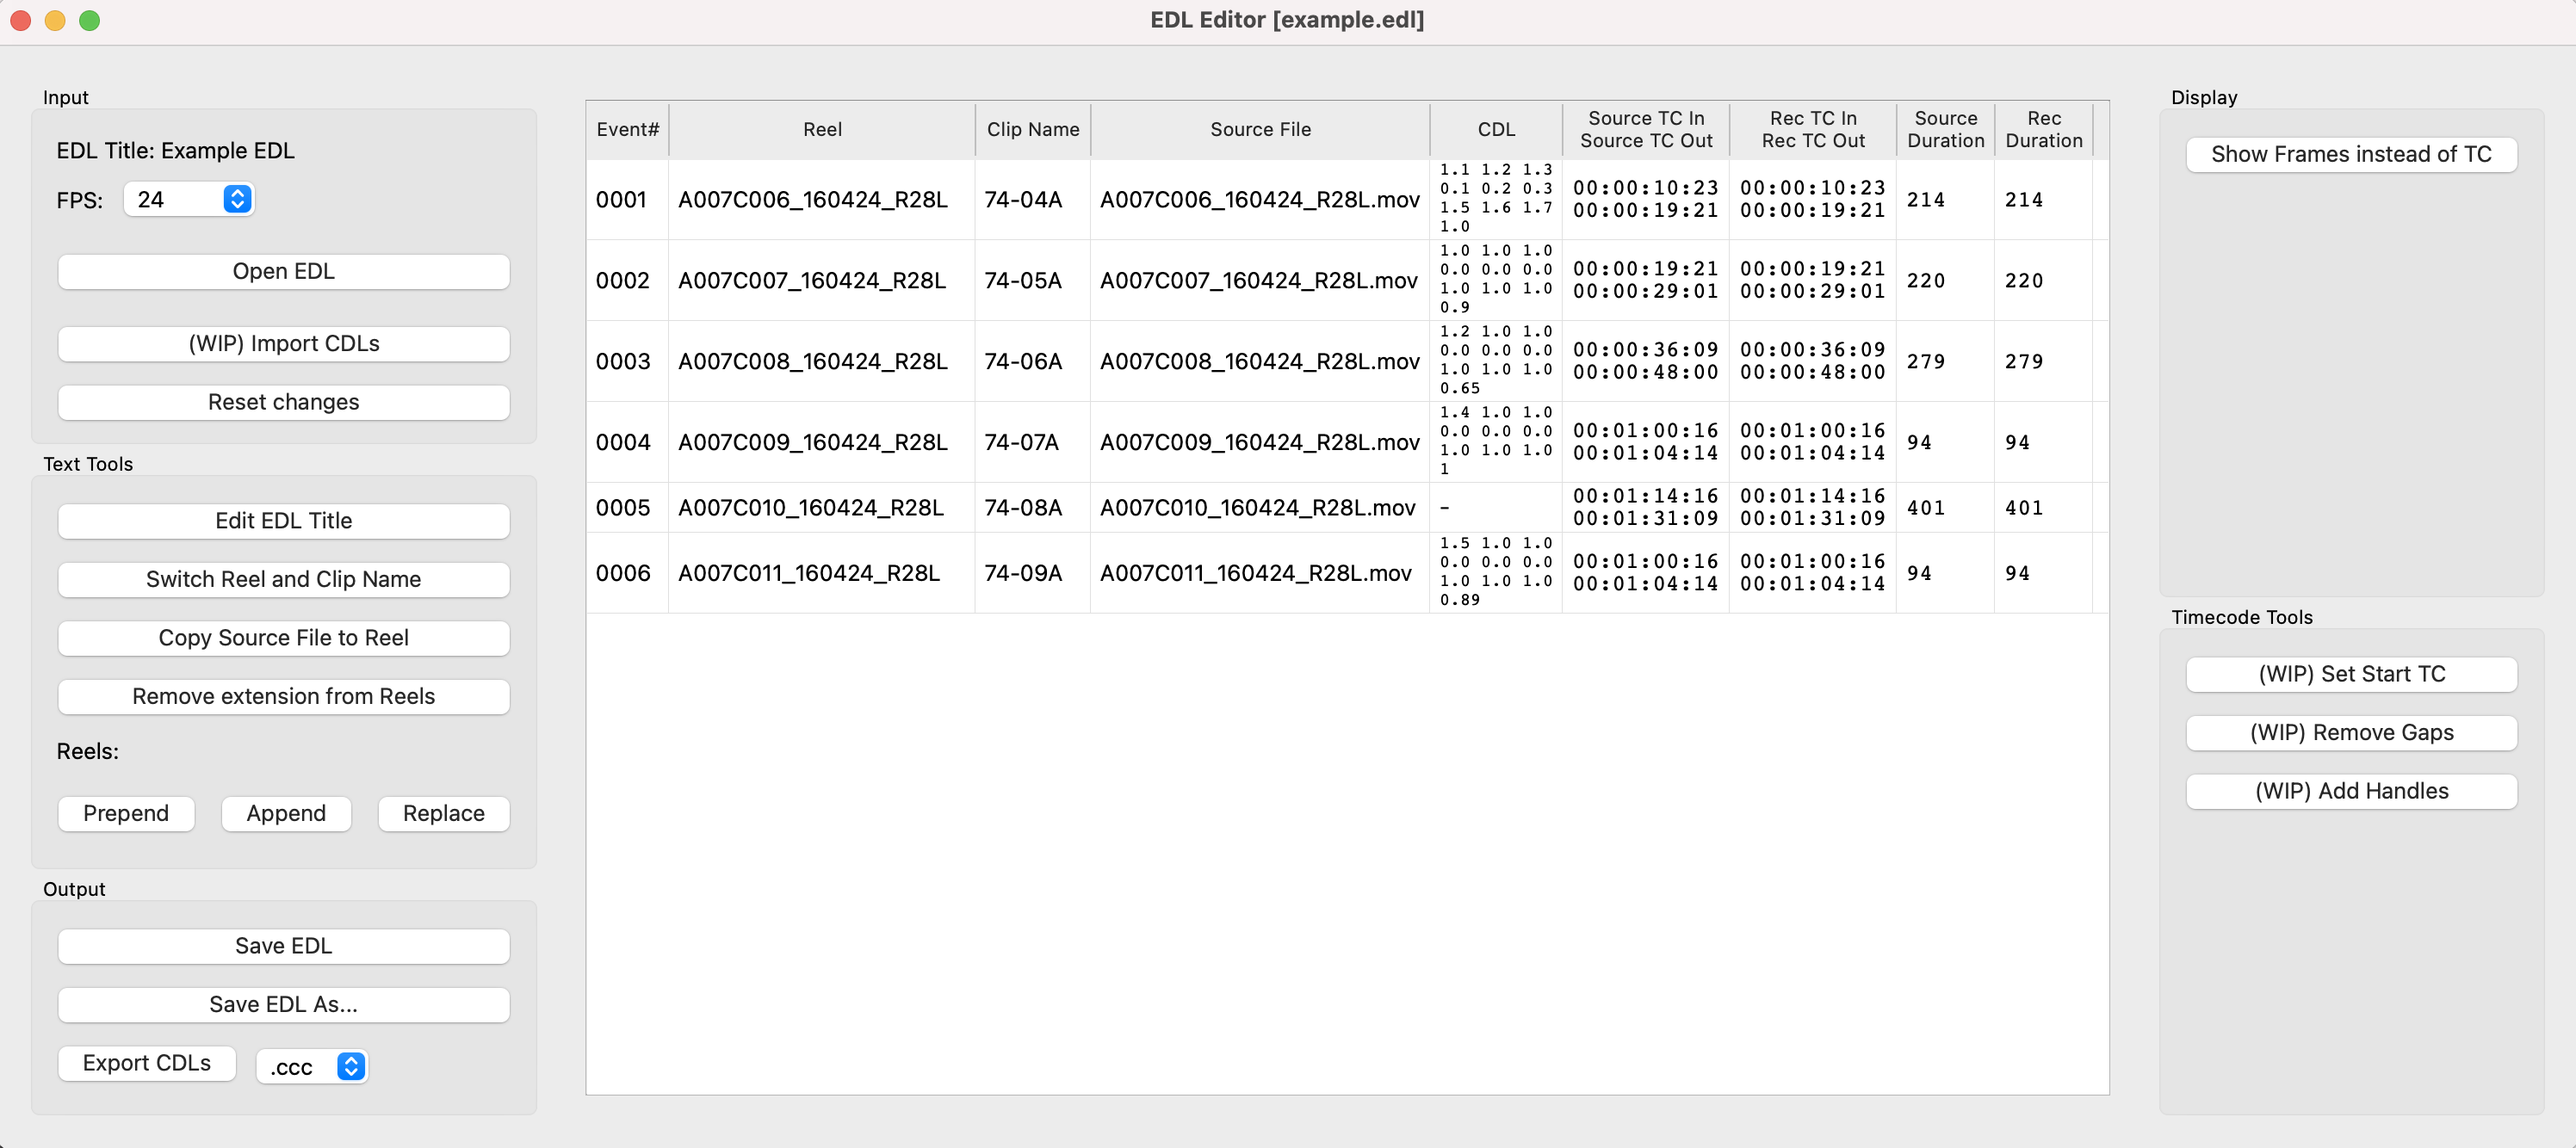
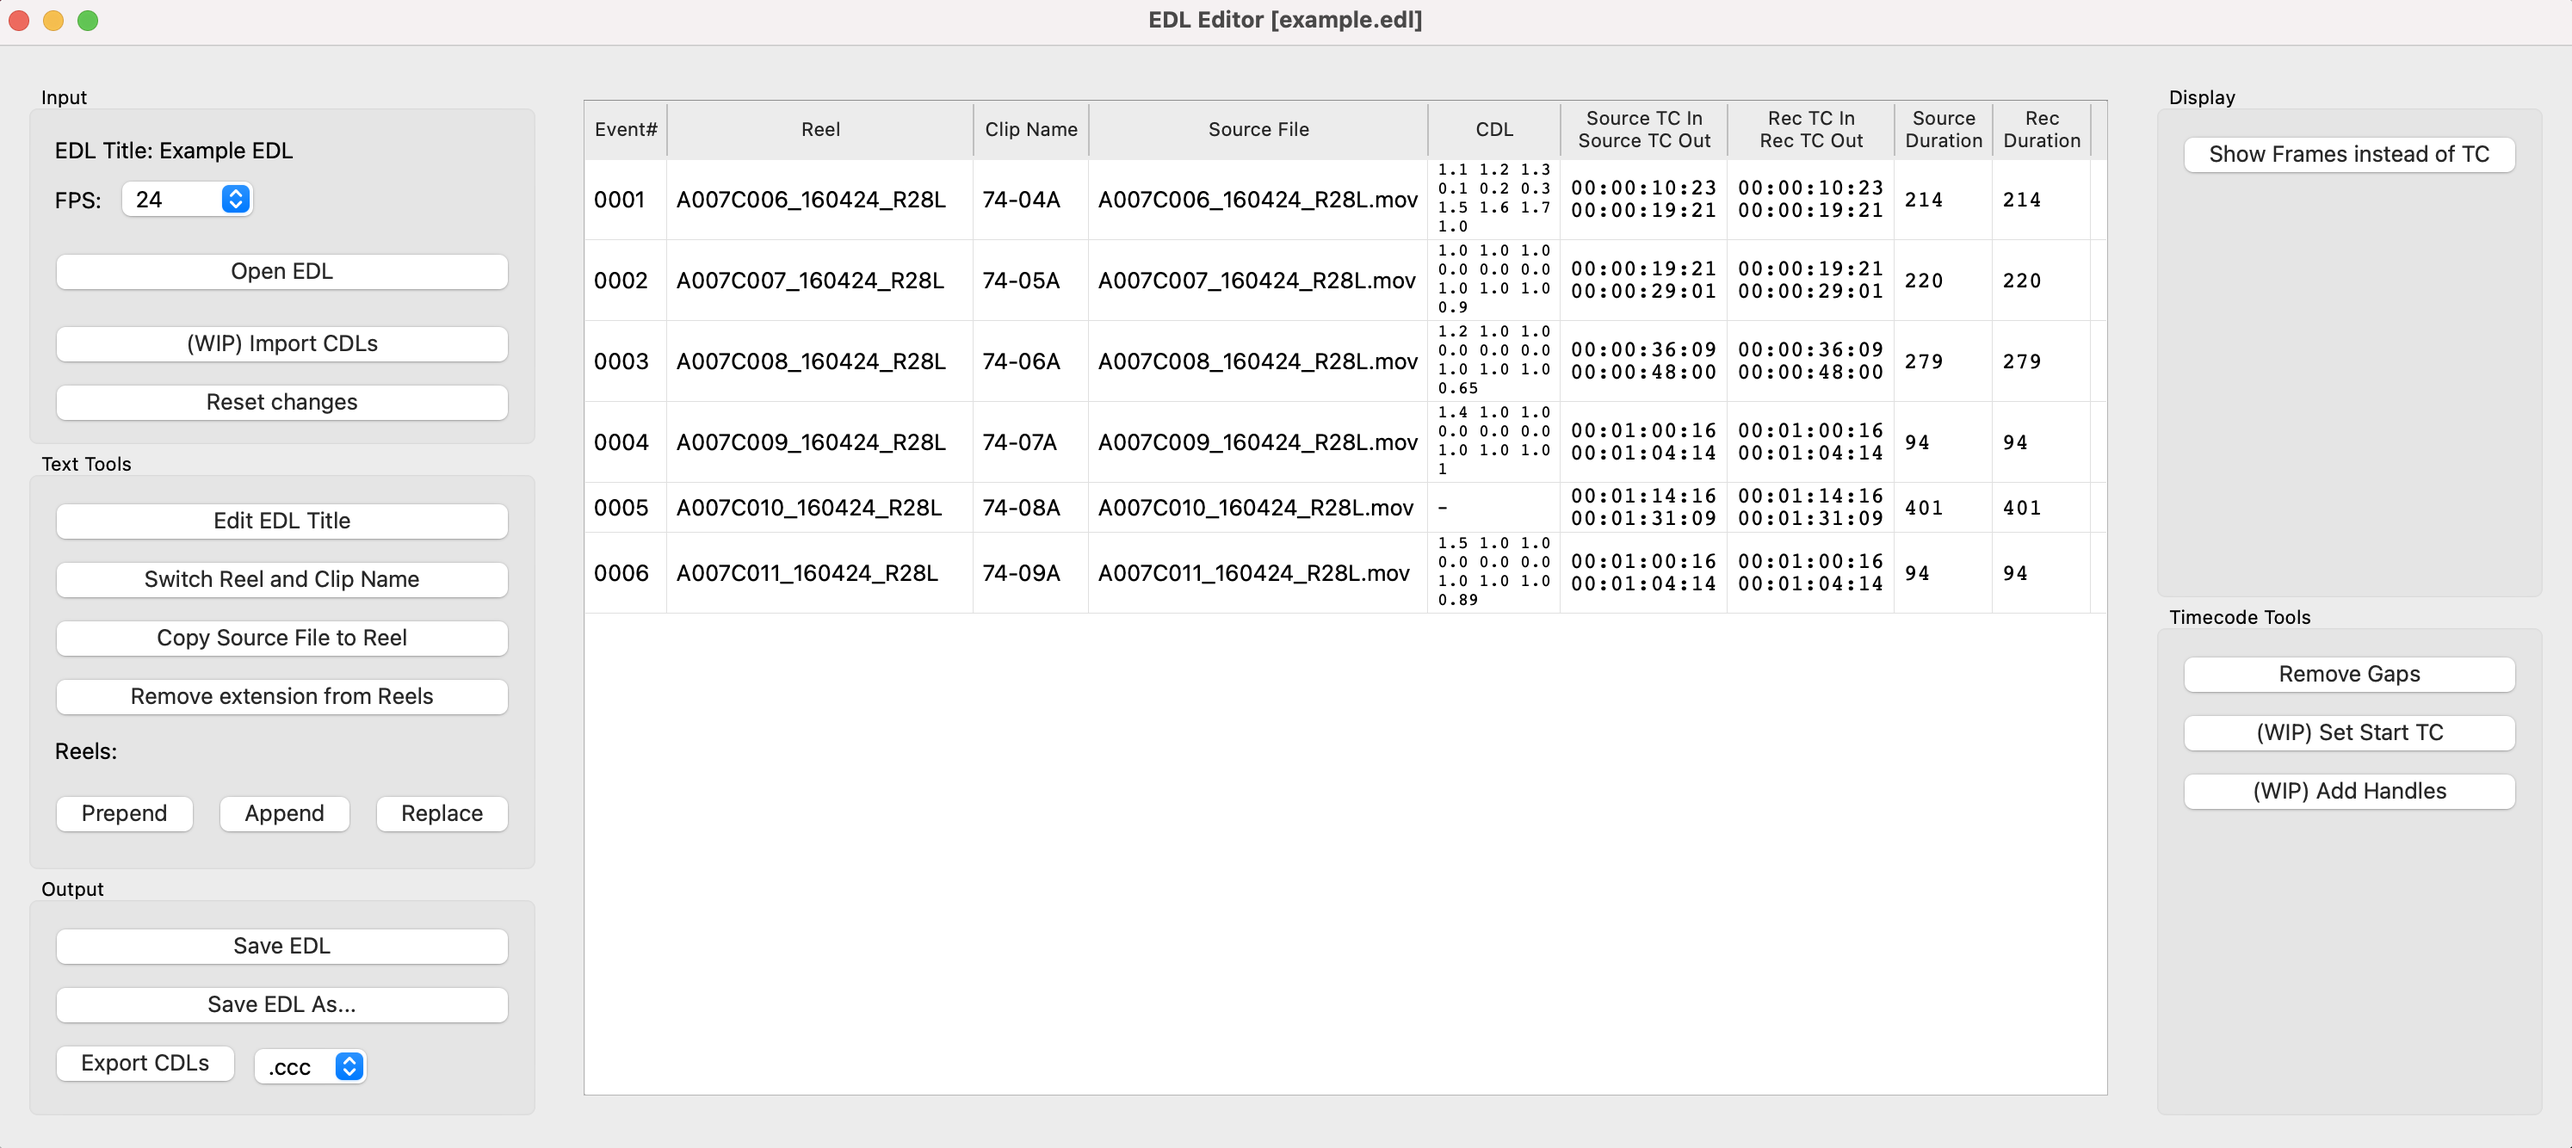
Add TC tool: Remove Gaps

diff --git a/py_edl_editor/edl_parser.py b/py_edl_editor/edl_parser.py
@@ -1,11 +1,10 @@
-"""Parse EDL."""
+"""EDL related stuff."""
 
 # Import built-in modules
 import os
 import re
 
 # Import third-party modules
-from edl import Event
 from edl import Parser
 from timecode import Timecode
 
@@ -24,6 +23,7 @@ def parse_edl(edl_path, fps):
         Edl: EDL instance.
 
     """
+    edl = None
     parser = Parser(fps)
     if os.path.isfile(edl_path):
         with open(edl_path) as edl_file:
@@ -36,6 +36,33 @@ def parse_edl(edl_path, fps):
                             event.cdl.set_sop(get_sop(comment))
                         if "ASC_SAT" in comment:
                             event.cdl.set_sat(get_sat(comment))
+    return edl
+
+
+def remove_edl_gaps(edl):
+    """Return EDL without gaps between EDL Events.
+
+    Args:
+        edl (Edl): Edit Decisioon List.
+
+    Return:
+        Edl: Edit Decision list without gaps.
+
+    """
+    for index in range(len(edl.events) - 1):
+        event_rec_end = edl.events[index].rec_end_tc
+        next_event_rec_start = edl.events[index+1].rec_start_tc
+        next_event_rec_end = edl.events[index+1].rec_end_tc
+        diff = next_event_rec_start.frames - event_rec_end.frames
+        if diff > 0:
+            tc_diff = next_event_rec_start - event_rec_end
+            edl.events[index+1].rec_start_tc = next_event_rec_start - tc_diff
+            edl.events[index+1].rec_end_tc = next_event_rec_end - tc_diff
+        # Special case: EDL with incorrect order:
+        if diff < 0:
+            tc_diff = event_rec_end - next_event_rec_start
+            edl.events[index+1].rec_start_tc = next_event_rec_start + tc_diff
+            edl.events[index+1].rec_end_tc = next_event_rec_end + tc_diff
     return edl
 
 

diff --git a/py_edl_editor/gui.py b/py_edl_editor/gui.py
@@ -213,13 +213,13 @@ class PyEdlEditorApp(QtWidgets.QWidget):
 
     def _timecode_tools_group_elements(self):
         """Show the timecode tools."""
+        remove_gaps_button = QtWidgets.QPushButton("Remove Gaps", self)
         set_start_tc_button = QtWidgets.QPushButton("(WIP) Set Start TC", self)
-        remove_gaps_button = QtWidgets.QPushButton("(WIP) Remove Gaps", self)
         add_handles_button = QtWidgets.QPushButton("(WIP) Add Handles", self)
-        self.timecode_tools_layout.addRow(set_start_tc_button)
         self.timecode_tools_layout.addRow(remove_gaps_button)
+        self.timecode_tools_layout.addRow(set_start_tc_button)
         self.timecode_tools_layout.addRow(add_handles_button)
-        # remove_gaps_button.clicked.connect(self.controller.remove_gaps)
+        remove_gaps_button.clicked.connect(self.controller.remove_gaps)
         # add_handles_button.clicked.connect(self.controller.add_handles)
         # set_start_tc_button.clicked.connect(self.controller.set_start_tc)
 

diff --git a/py_edl_editor/gui_controller.py b/py_edl_editor/gui_controller.py
@@ -9,6 +9,7 @@ from PySide6 import QtWidgets
 
 # Import local modules
 from py_edl_editor.edl_parser import parse_edl
+from py_edl_editor.edl_parser import remove_edl_gaps
 from py_edl_editor.cdl import ccc_xml
 
 FRAMERATES = ["23.98", "24", "25", "29.97", "30", "50", "59.94", "60"]
@@ -183,6 +184,11 @@ class GuiController(object):
                     self._write_file(dest_file_path, cdl.cdl_xml())
                 else:
                     self._write_file(dest_file_path, cdl.cc_xml())
+
+    def remove_gaps(self):
+        """Remove EDL gaps."""
+        self.edl = remove_edl_gaps(self.edl)
+        self._fill_edl_table()
 
     def _fix_event_clip_name_comment(self, event):
         """Update EDL Event comment string that contains the Clip Name.

diff --git a/py_edl_editor/test/test_remove_tc_gaps.py b/py_edl_editor/test/test_remove_tc_gaps.py
@@ -1,0 +1,17 @@
+"""Tests for TC Tools."""
+
+# Import built-in modules
+import os
+
+# Import local modules
+from py_edl_editor.edl_parser import parse_edl
+from py_edl_editor.edl_parser import remove_edl_gaps
+
+
+def test_remove_tc_gaps():
+    dirname = os.path.dirname(__file__)
+    edl_with_gaps_path = os.path.join(dirname, "files/edl_with_gaps.edl")
+    edl_without_gaps_path = os.path.join(dirname, "files/edl_without_gaps.edl")
+    gap_edl = parse_edl(edl_with_gaps_path, "24")
+    no_gap_edl = parse_edl(edl_without_gaps_path, "24")
+    assert no_gap_edl.to_string() == remove_edl_gaps(gap_edl).to_string()
